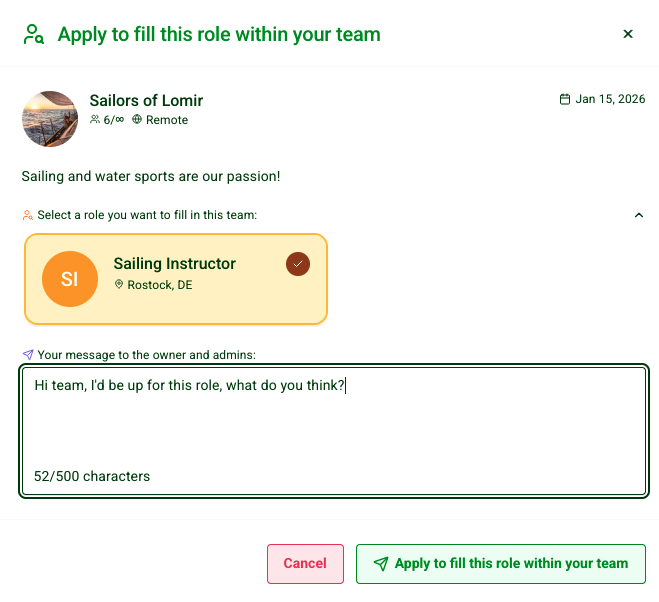
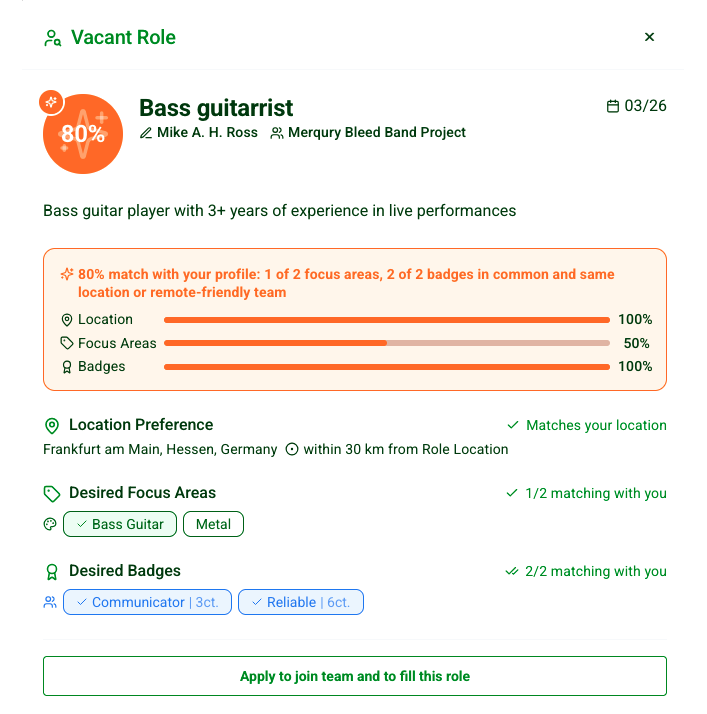
feat(home): reframe the middle sections around what an account unlocks
Three changes to the body of the landing page.

The step section is no longer titled How Lomir works. It is now Find,
connect & create, and each step says what a free profile adds to simply
browsing - which the page never answered, even though it invites guests
to look around without one. Find and be found also covers the passive
side, being discovered by teams looking for your skills, which is the
one thing a guest structurally cannot have. The three texts were then
levelled to a similar length; the first ran to twice the third.

Nothing is lost by dropping the old wording: the match weighting still
appears in full on the feature card below, and privacy-by-default in
both that card and the closing block.

The open-roles screenshot now shows a role with its match breakdown
rather than the apply dialog. Checked against the four claims in the
text beside it - skills attached, where you would fit, apply directly,
follow your application - the old shot supported one, this one supports
three.

Both screenshots in that panel are now exactly 707 by 714, so the two
rows line up. Getting there meant padding rather than cropping: the chat
capture had only 17px of real margin at the sides, so trimming it to
proportion visibly cut the sidebar and the send button. Instead the
chat keeps its full width and gained page background above and below,
and the role modal gained white at the sides. The fill colours are
sampled from the images themselves, so the seams are invisible. A
[…]

diff --git a/src/pages/Home.jsx b/src/pages/Home.jsx
@@ -78,7 +78,8 @@ const HERO_MODAL_SHOTS = [
   {
     src: "/screenshots/modal-team.png",
     alt: "Team details with focus areas, badges and members",
-    position: "hidden lg:block right-[calc(-7%_-_15px)] top-[33%] w-[30%] z-[1]",
+    position:
+      "hidden lg:block right-[calc(-7%_-_15px)] top-[33%] w-[30%] z-[1]",
     captionTitle: "Teams",
     caption:
       "A team page shows what the group is about, where it meets and who belongs to it, together with the focus areas and badges its members bring. If the team still has space, you can apply to join straight from here.",
@@ -188,6 +189,11 @@ const FloatingShot = ({ src, alt, onOpen, className = "" }) => (
  * modals, which are portrait by nature, and cropping them to a fixed landscape
  * ratio cuts away the part that carries the message. Only the placeholder uses
  * a fixed ratio, since it has no content to lose.
+ *
+ * Frames that sit side by side therefore only line up in height if their
+ * captures share a similar aspect ratio. That is handled when taking the
+ * screenshot, not here — fitting a mismatched image into a fixed box would
+ * leave visible empty margins beside it.
  */
 const ScreenshotFrame = ({ src, alt, caption, icon, className = "" }) => {
   const [hasFailed, setHasFailed] = useState(false);
@@ -329,8 +335,8 @@ const Home = () => {
           <div className="relative w-full lg:pb-[8%]">
             <ScreenshotFrame
               src={SCREENSHOTS.search}
-              alt="Team search with map view and match scores"
-              caption="Search — teams near you"
+              alt="Map search showing teams, people and open roles as pins"
+              caption="Search — teams, people and open roles"
               icon={<MapPin className="w-8 h-8" />}
               className="w-full"
             />
@@ -360,37 +366,41 @@ const Home = () => {
       {/* How it works */}
       <Section spacing="">
         <div className="text-center mb-8">
-          <h2 className="text-xl font-medium text-primary">How Lomir works</h2>
+          <h2 className="text-xl font-medium text-primary">
+            Find, connect &amp; create
+          </h2>
           <p className="text-base-content/70 text-sm mt-1">
-            Three steps from an empty profile to a working team.
+            What a free profile adds to looking around.
           </p>
         </div>
 
         <div className="flex flex-col sm:flex-row gap-8 sm:gap-4">
           <Step
             number="1"
-            icon={<Sparkles className="w-5 h-5" />}
-            title="Describe what you are into"
+            icon={<Search className="w-5 h-5" />}
+            title="Find and be found"
           >
-            Pick focus areas and skills, set your location and how far you want
-            to collaborate. Your profile stays private until you publish it.
+            Search people, teams and open roles nearby or worldwide — and once
+            your profile is public, teams looking for your skills find you.
+            Every result carries a match score you can open up and check.
           </Step>
           <Step
             number="2"
-            icon={<Percent className="w-5 h-5" />}
-            title="See who actually fits"
+            icon={<MessageCircle className="w-5 h-5" />}
+            title="Connect"
           >
-            Every result carries a match score you can open up — shared focus
-            areas, confirmed skills, and distance, each weighted and shown
-            separately.
+            Message anyone directly, apply for an open role, or accept an
+            invitation into a team. Every application and invitation stays
+            trackable, so you always know where you stand.
           </Step>
           <Step
             number="3"
-            icon={<Users className="w-5 h-5" />}
-            title="Team up and get going"
+            icon={<Sparkles className="w-5 h-5" />}
+            title="Create"
           >
-            Join a team through an open role, or start your own and invite the
-            people you found. Chat comes built in.
+            Start your own team, publish the roles you still need to fill, and
+            invite the people you found. Afterwards, award badges to those who
+            actually showed up for the work.
           </Step>
         </div>
       </Section>
@@ -419,8 +429,8 @@ const Home = () => {
             </div>
             <ScreenshotFrame
               src={SCREENSHOTS.roles}
-              alt="A team with its open roles and members"
-              caption="Team — open roles"
+              alt="An open role with the skills it asks for and how far it matches your profile"
+              caption="Open role — matched to your profile"
               icon={<UserPlus className="w-8 h-8" />}
               className="md:w-1/2"
             />
